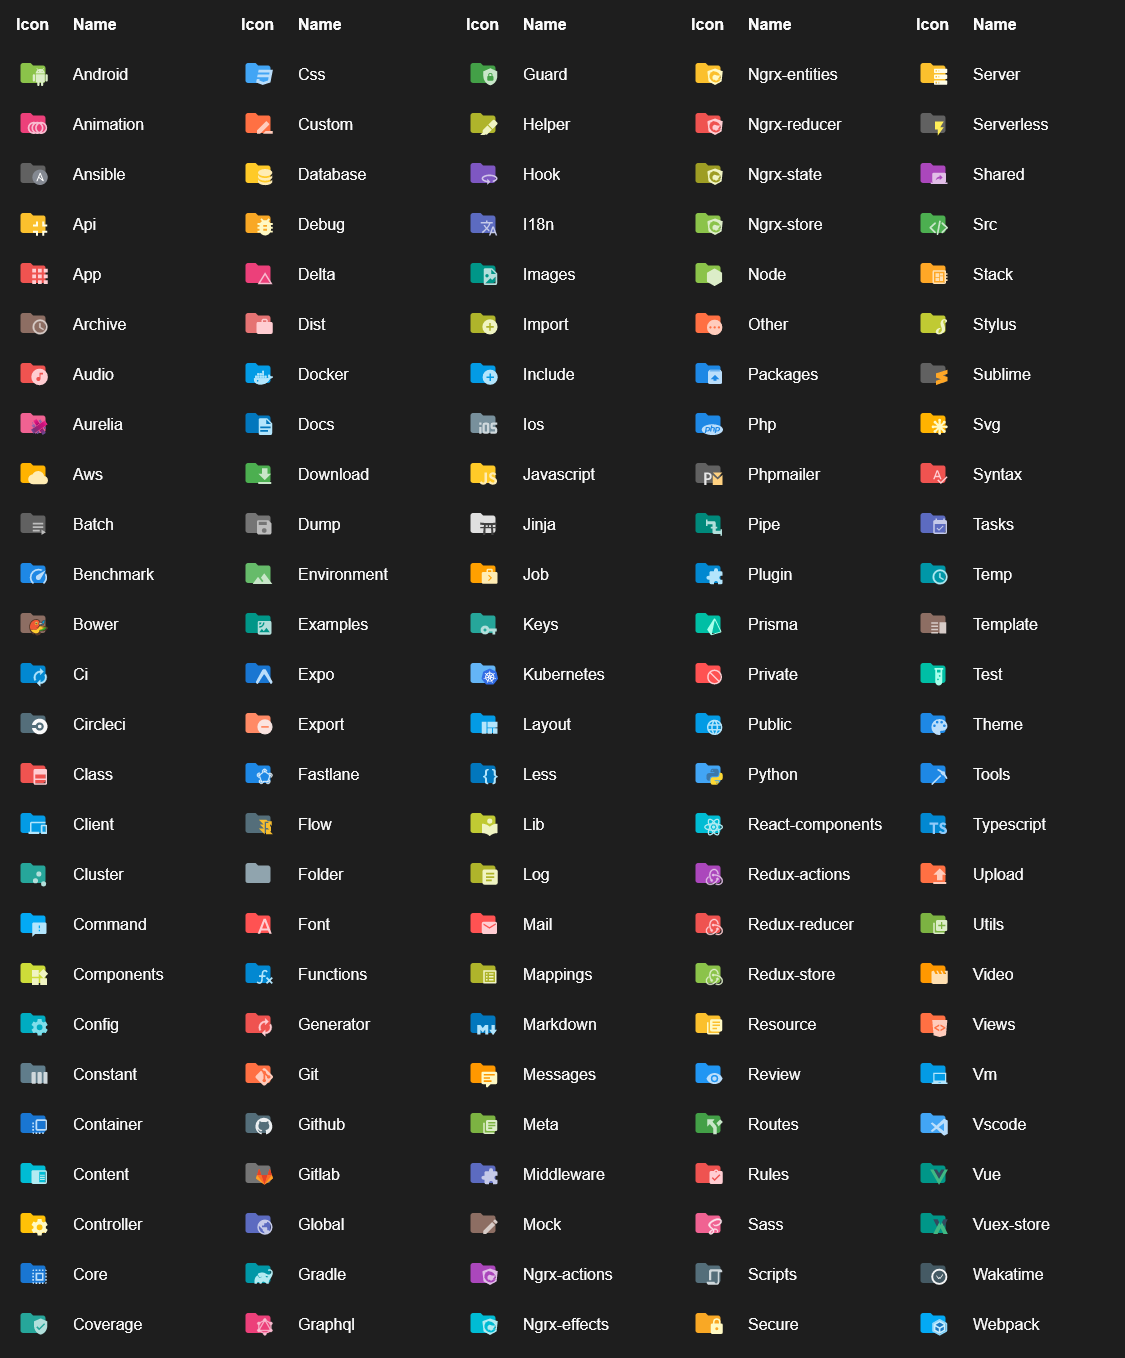
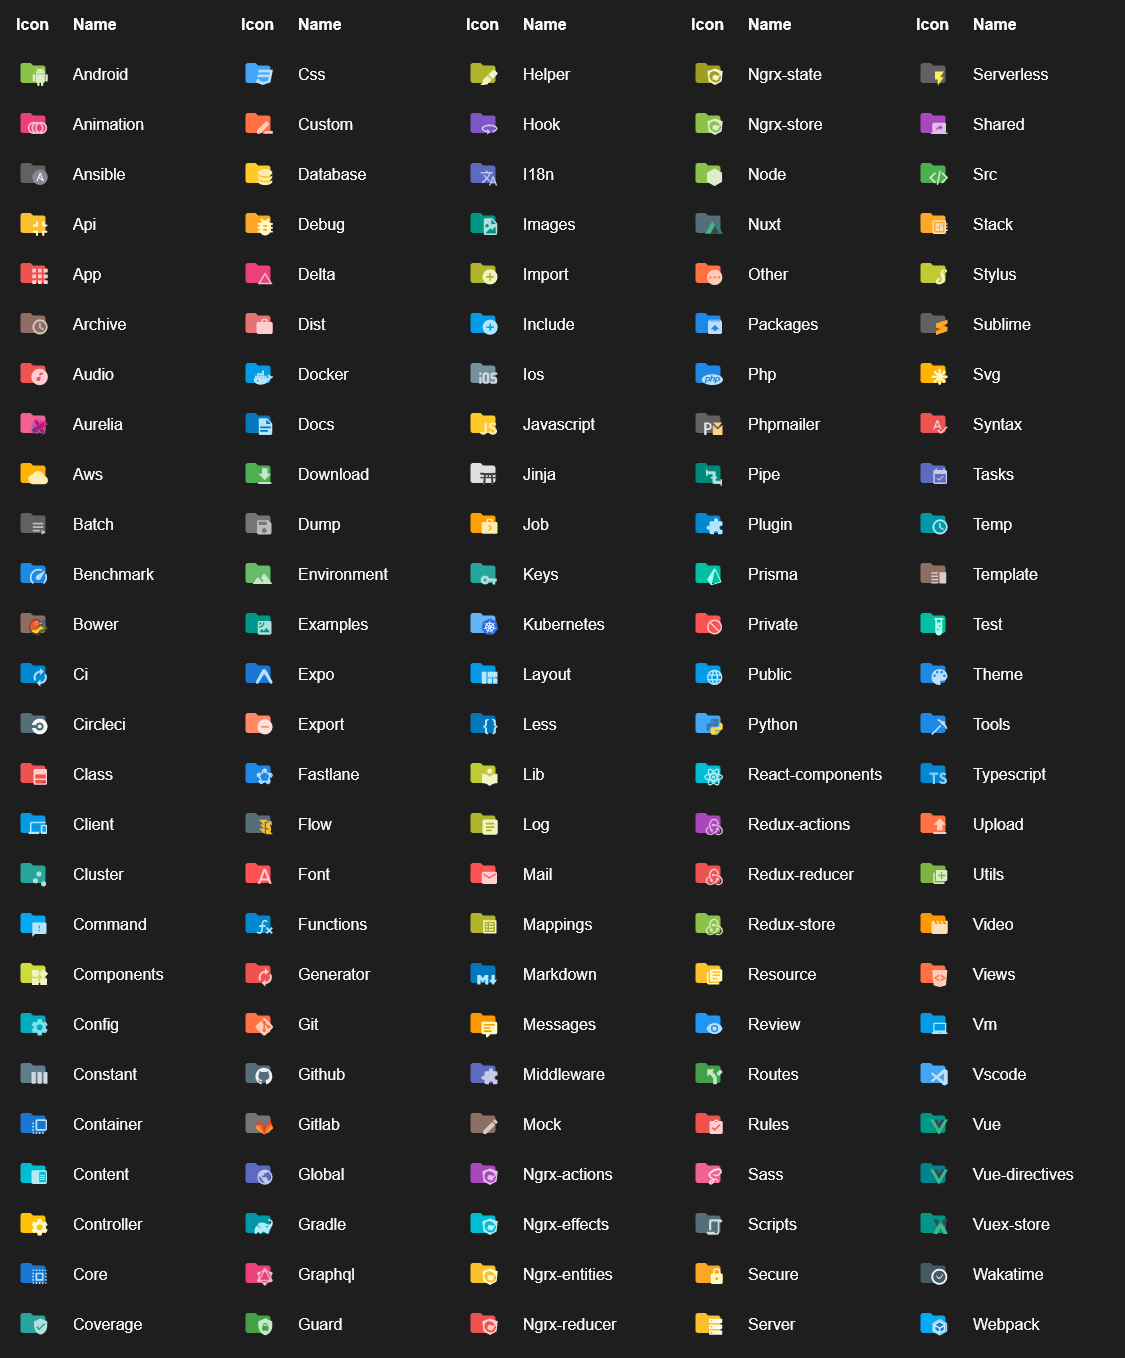
Release 3.8.0

diff --git a/src/scripts/preview/index.ts b/src/scripts/preview/index.ts
@@ -25,5 +25,5 @@ const folderThemes = filterDuplicates(folderIcons.map(theme => {
     return [].concat(...folders);
 }).reduce((a, b) => a.concat(b))).map(i => ({ iconName: i, label: i.replace('folder-', '') }));
 
-generatePreview('fileIcons', basicFileIcons, 5, []);
-generatePreview('folderIcons', folderThemes, 5, []);
+generatePreview('fileIcons', basicFileIcons, 5, ['powerpoint']);
+generatePreview('folderIcons', folderThemes, 5, ['folder', 'folder-meta']);

diff --git a/CHANGELOG.md b/CHANGELOG.md
@@ -1,4 +1,31 @@
 # Changelog
+## 3.8.0 (2019-05-25)
+### New features
+- Vue.js and Vuex theme ([@Bakosa666](https://github.com/Bakosa666) in [#402](https://github.com/PKief/vscode-material-icon-theme/pull/402))
+- Hot reload for hidesExplorerArrows configuration (in [c65d9a6](https://github.com/PKief/vscode-material-icon-theme/commit/c65d9a6935eb6cc09a779fd5cf49af26948fd8df))
+
+### New file icons
+- Netlify ([@leggsimon](https://github.com/leggsimon) in [#396](https://github.com/PKief/vscode-material-icon-theme/pull/396))
+- .env ([@richardmillen94](https://github.com/richardmillen94) in [#423](https://github.com/PKief/vscode-material-icon-theme/pull/423))
+- .leex ([@suazithustra](https://github.com/suazithustra) in [#424](https://github.com/PKief/vscode-material-icon-theme/pull/424))
+- .tsbuildinfo (in [c408ac8](https://github.com/PKief/vscode-material-icon-theme/commit/c408ac8bb3274e69e3800b798227cee3777f6399))
+- Svelte ([@simlej](https://github.com/simlej) in [#439](https://github.com/PKief/vscode-material-icon-theme/pull/439))
+- .mocharc ([@yuric18](https://github.com/yuric18) in [#446](https://github.com/PKief/vscode-material-icon-theme/pull/446))
+- Nuxt.js ([@Bakosa666](https://github.com/Bakosa666) in [#450](https://github.com/PKief/vscode-material-icon-theme/pull/450))
+
+### New folder icons
+- nuxt ([@Bakosa666](https://github.com/Bakosa666) in [#450](https://github.com/PKief/vscode-material-icon-theme/pull/450))
+- Vue.js directives ([@Bakosa666](https://github.com/Bakosa666) in [#450](https://github.com/PKief/vscode-material-icon-theme/pull/450))
+
+### Added translations
+- Dutch translation ([@TheCloudSaver](https://github.com/TheCloudSaver) in [#444](https://github.com/PKief/vscode-material-icon-theme/pull/444))
+- Polish translation ([@JakubKoralewski](https://github.com/JakubKoralewski) in [#453](https://github.com/PKief/vscode-material-icon-theme/pull/453))
+
+### Other improvements
+- Support remote development ([@mjbvz](https://github.com/mjbvz) in [#442](https://github.com/PKief/vscode-material-icon-theme/pull/442))
+- Show language icons in preview (in [05bde2b](https://github.com/PKief/vscode-material-icon-theme/commit/05bde2bda649b289c14a93f57d5d1a8d0f6de754))
+- Improved compatibility for older versions of VS Code (in [3fedead](https://github.com/PKief/vscode-material-icon-theme/commit/3fedead66b4fae725708c104bfb8fd5f79b92cf5))
+
 ## 3.7.0 (2019-03-24)
 ### New features
 - Command for grayscale icons ([@cezarsa](https://github.com/cezarsa) in [#387](https://github.com/PKief/vscode-material-icon-theme/pull/387))
